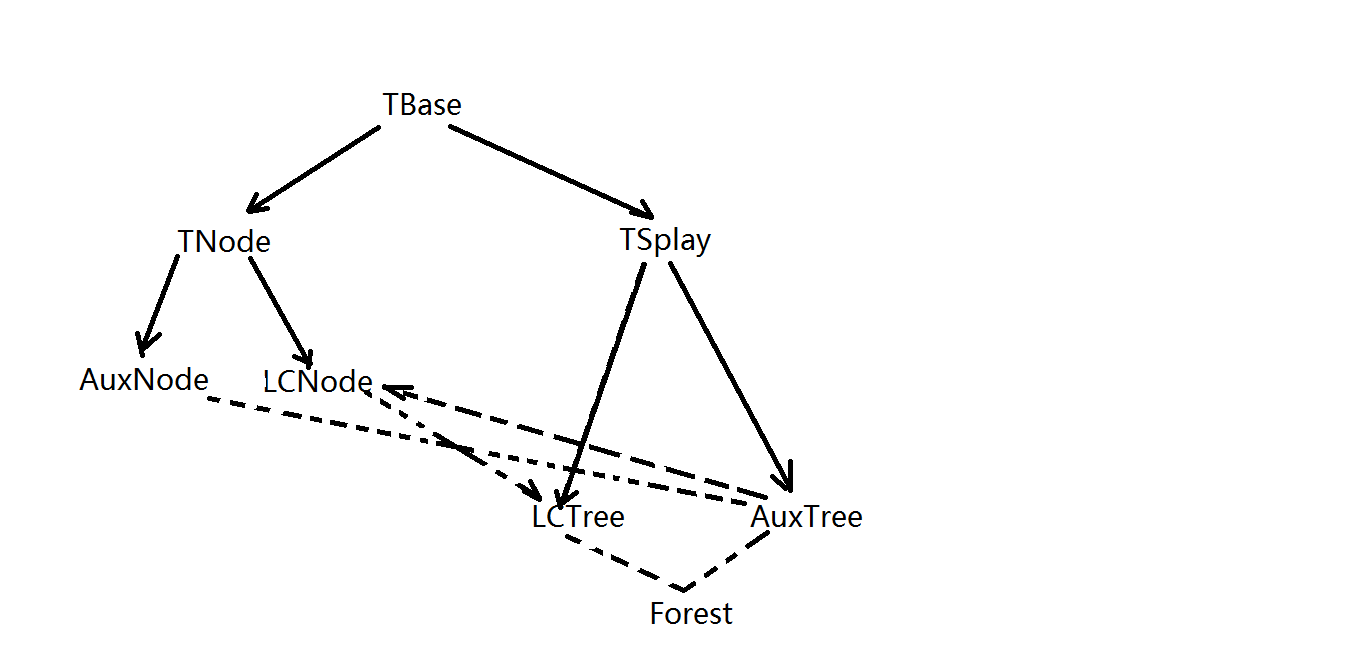
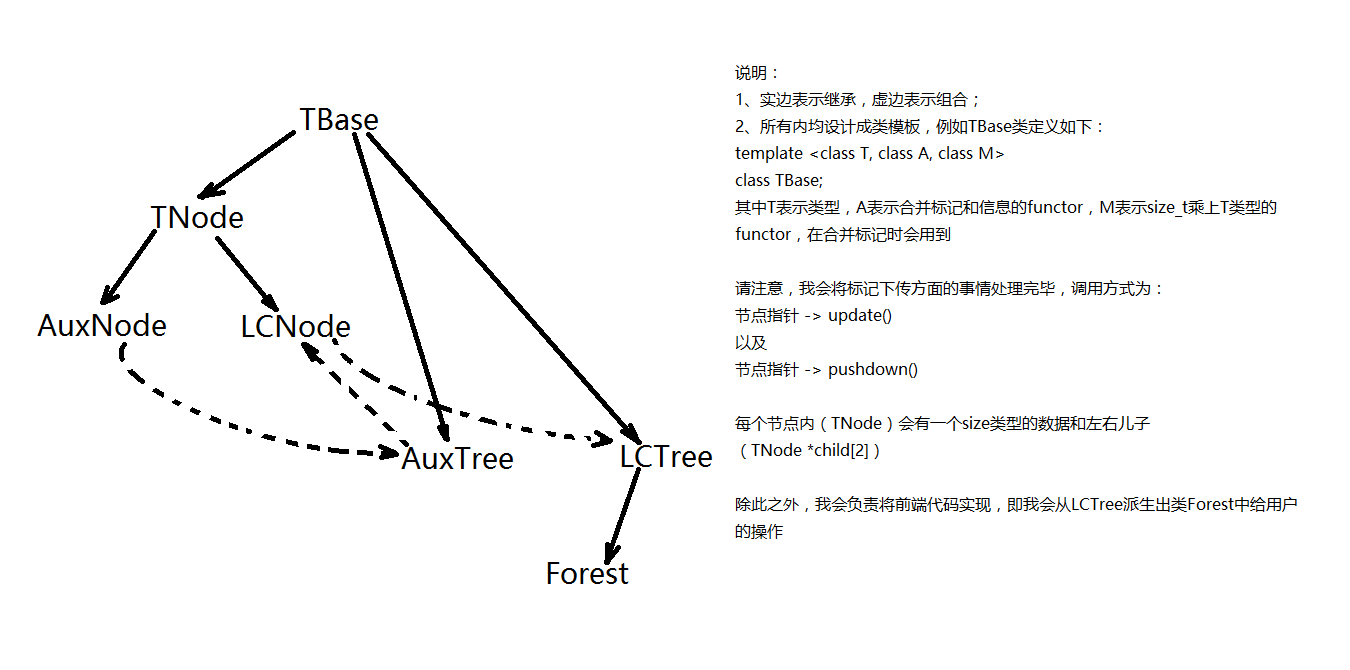
Framework Changed.

diff --git a/AAATree/source/Forest.cpp b/AAATree/source/Forest.cpp
@@ -1,0 +1,47 @@
+#ifdef SJTU_FOREST_HPP
+
+#ifndef SJTU_FOREST_CPP
+#define SJTU_FOREST_CPP
+
+template<class T, class A, class M>
+Forest<T, A, M>::Forest() : size(0) {
+}
+
+template<class T, class A, class M>
+Forest<T, A, M>::~Forest() {
+	// TODO
+}
+
+template<class T, class A, class M>
+void Forest<T, A, M>::link(const Forest<T, A, M>::Node &u, const Forest<T, A, M>::Node &v) {
+	// TODO
+}
+
+template<class T, class A, class M>
+void Forest<T, A, M>::cut(const Forest<T, A, M>::Node &u, const Forest<T, A, M>::Node &v) {
+	// TODO
+}
+
+template<class T, class A, class M>
+void Forest<T, A, M>::modify(const Forest<T, A, M>::Node &u, const Forest<T, A, M>::Node &v, const T &value) {
+	// TODO
+}
+
+template<class T, class A, class M>
+void Forest<T, A, M>::modify(const Forest<T, A, M>::Node &u, const T &value) {
+	// TODO
+}
+
+template<class T, class A, class M>
+T Forest<T, A, M>::query(const Forest<T, A, M>::Node &u, const Forest<T, A, M>::Node &v) {
+	// TODO
+}
+
+template<class T, class A, class M>
+T Forest<T, A, M>::query(const Forest<T, A, M>::Node &u) {
+	// TODO
+}
+
+#endif
+
+#endif

diff --git a/AAATree/TBase.hpp b/AAATree/TBase.hpp
@@ -1,29 +1,18 @@
 #ifndef SJTU_TBASE_HPP
 #define SJTU_TBASE_HPP
 
+#include <cstddef>
+#include <functional>
+
 namespace sjtu{
 
-template<class D, class T, class DA, class TA, class M>
+template<class T, class A, class M>
 class TBase{
-protected:
-	static DA dataAdd;
-	static TA tagAdd;
-	static M mult;
-
 public:
 	TBase();
 	virtual ~TBase();
 
 };
-
-template<class D, class T, class DA, class TA, class M>
-DA TBase<D, T, DA, TA, M>::dataAdd;
-
-template<class D, class T, class DA, class TA, class M>
-TA TBase<D, T, DA, TA, M>::tagAdd;
-
-template<class D, class T, class DA, class TA, class M>
-M TBase<D, T, DA, TA, M>::mult;
 
 #include "source/TBase.cpp"
 

diff --git a/AAATree/Forest.hpp b/AAATree/Forest.hpp
@@ -1,0 +1,40 @@
+#ifndef SJTU_FOREST_HPP
+#define SJTU_FOREST_HPP
+
+#include "LCTree.hpp"
+
+namespace sjtu{
+
+template<class T, class A, class M>
+class Forest : public LCTree<T, A, M>{
+private:
+	size_t size;
+
+public:
+	class Node{
+	private:
+		LCTNode<T, A, M> *p;
+	
+	public:
+		Node();
+
+	};
+
+	Forest();
+	~Forest();
+
+	Node createTree();
+	void link(const Node &u, const Node &v);
+	void cut(const Node &u, const Node &v);
+	void modify(const Node &u, const Node &v, const T &value);
+	void modify(const Node &u, const T &value);
+	T query(const Node &u, const Node &v);
+	T query(const Node &u);
+
+};
+
+#include "source/Forest.cpp"
+
+}
+
+#endif

diff --git a/AAATree/TNode.hpp b/AAATree/TNode.hpp
@@ -5,17 +5,32 @@
 
 namespace sjtu{
 
-template<class D, class T, class DA, class TA, class M>
-class TNode : TBase<D, T, DA, TA, M>{
+template<class T, class A, class M>
+class TNode{
 protected:
-	D data;
+	T data;
 	size_t size;
 	TNode *child[2], *father;
+
+	static A add;
+	static M mult;
+
+public:
+	TNode();
+	virtual ~TNode();
 
 	virtual void pushdown() = 0;
 	virtual void update() = 0;
 
 };
+
+template<class T, class A, class M>
+A TNode<T, A, M>::add;
+
+template<class T, class A, class M>
+M TNode<T, A, M>::mult;
+
+#include "source/TNode.cpp"
 
 }
 

diff --git a/AAATree/source/AuxNode.cpp b/AAATree/source/AuxNode.cpp
@@ -3,18 +3,13 @@
 #ifndef SJTU_AUXNODE_CPP
 #define SJTU_AUXNODE_CPP
 
-template<class D, class T, class DA, class TA, class M>
-void AuxNode<D, T, DA, TA, M>::pushdown() {
+template<class T, class A, class M>
+void AuxNode<T, A, M>::pushdown() {
 	// TODO
 }
 
-template<class D, class T, class DA, class TA, class M>
-void AuxNode<D, T, DA, TA, M>::update() {
-	// TODO
-}
-
-template<class D, class T, class DA, class TA, class M>
-AuxNode<D, T, DA, TA, M>::~AuxNode(){
+template<class T, class A, class M>
+void AuxNode<T, A, M>::update() {
 	// TODO
 }
 

diff --git a/AAATree/AuxNode.hpp b/AAATree/AuxNode.hpp
@@ -5,25 +5,19 @@
 
 namespace sjtu{
 
-template<class D, class T, class DA, class TA, class M>
-class AuxTree;
-
-template<class D, class T, class DA, class TA, class M>
-class AuxNode : TNode<D, T, DA, TA, M>{
-friend class AuxTree<D, T, DA, TA, M>;
+template<class T, class A, class M>
+class AuxNode : TNode<T, A, M>{
 private:
 	T tagTree;
-	
-	void pushdown();
-	void update();
 
 public:
-	virtual ~AuxNode();
+	void pushdown();
+	void update();
 
 };
 
 #include "source/AuxNode.cpp"
 
-};
+}
 
 #endif

diff --git a/AAATree/LCTNode.hpp b/AAATree/LCTNode.hpp
@@ -1,0 +1,31 @@
+#ifndef SJTU_LCTNODE_HPP
+#define SJTU_LCTNODE_HPP
+
+#include "TNode.hpp"
+
+namespace sjtu{
+
+template<class T, class A, class M>
+class AuxTree;
+
+template<class T, class A, class M>
+class LCTNode : public TNode<T, A, M>{
+private:
+	size_t id;
+	T tagTree, tagChain;
+	AuxTree<T, A, M> subtree;
+	bool reverse;
+
+public:
+	LCTNode(const size_t &id);
+
+	void pushdown();
+	void update();
+
+};
+
+#include "source/LCTNode.cpp"
+
+}
+
+#endif

diff --git a/AAATree/source/TBase.cpp b/AAATree/source/TBase.cpp
@@ -3,11 +3,11 @@
 #ifndef SJTU_TBASE_CPP
 #define SJTU_TBASE_CPP
 
-template<class D, class T, class DA, class TA, class M>
-TBase<D, T, DA, TA, M>::TBase() {}
+template<class T, class A, class M>
+TBase<T, A, M>::~TBase() {}
 
-template<class D, class T, class DA, class TA, class M>
-TBase<D, T, DA, TA, M>::~TBase() {}
+template<class T, class A, class M>
+TBase<T, A, M>::TBase() {}
 
 #endif
 

diff --git a/AAATree/LCTree.hpp b/AAATree/LCTree.hpp
@@ -1,0 +1,23 @@
+#ifndef SJTU_LCTREE_HPP
+#define SJTU_LCTREE_HPP
+
+#include "LCTNode.hpp"
+#include "TBase.hpp"
+
+namespace sjtu{
+
+template<class T, class A, class M>
+class LCTree : public TBase<T, A, M>{
+private:
+
+protected:
+	void access(LCTNode<T, A, M> *p);
+	void setRoot(LCTNode<T, A, M> *p);
+
+};
+
+#include "source/LCTree.cpp"
+
+}
+
+#endif

diff --git a/AAATree/source/TNode.cpp b/AAATree/source/TNode.cpp
@@ -1,0 +1,18 @@
+#ifdef SJTU_TNODE_HPP
+
+#ifndef SJTU_TNODE_CPP
+#define SJTU_TNODE_CPP
+
+template<class T, class A, class M>
+TNode<T, A, M>::TNode() : size(0), father(nullptr) {
+	child[0] = child[1] = nullptr;
+}
+
+template<class T, class A, class M>
+TNode<T, A, M>::~TNode() {
+	// TODO
+}
+
+#endif
+
+#endif

diff --git a/AAATree/source/LCTNode.cpp b/AAATree/source/LCTNode.cpp
@@ -1,0 +1,18 @@
+#ifdef SJTU_LCTNODE_HPP
+
+#ifndef SJTU_LCTNODE_CPP
+#define SJTU_LCTNODE_CPP
+
+template<class T, class A, class M>
+void LCTNode<T, A, M>::pushdown() {
+	// TODO
+}
+
+template<class T, class A, class M>
+void LCTNode<T, A, M>::update() {
+	// TODO
+}
+
+#endif
+
+#endif

diff --git a/AAATree/test.cpp b/AAATree/test.cpp
@@ -1,6 +1,12 @@
-#include <bits/stdc++.h>
-#include "AuxNode.hpp"
+#include "Forest.hpp"
+
+class Add{
+};
+
+class Mult{
+};
+
+sjtu::Forest<int, Add, Mult> forest;
 
 int main() {
-	return 0;
 }
